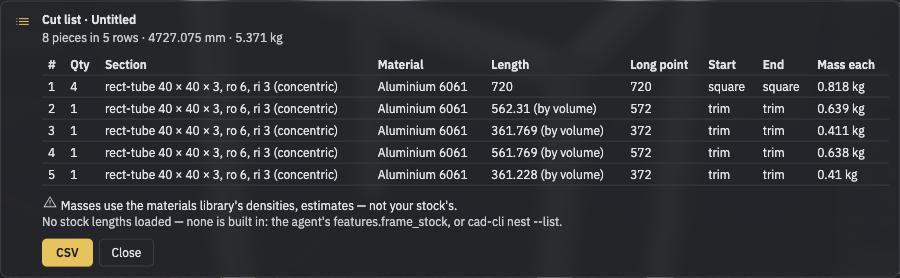
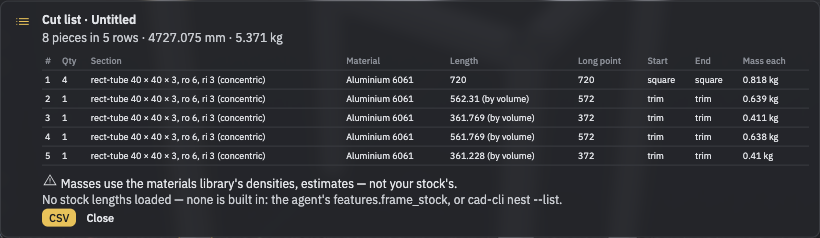
docs(library-docs): every shot retaken on G12's final layout (36, 2.7 MB) — the Parameters and Rendering shots in, the Preview & analysis section, the agent's chat as scripted turns streamed in the browser (its proposal made by the real tool layer through cad-mcp); capture steps for the preview swit

diff --git a/apps/library-docs/docs/studio/rendering.md b/apps/library-docs/docs/studio/rendering.md
@@ -7,8 +7,10 @@ camera. It can also add props and animate the part.
 - **WebGPU only.** It draws with the studio's WebGPU viewer. On WebGL2 the panel says rendering needs WebGPU, and the
   view stays the modelling look.
 
-Click **Render** in the top bar to open it. The **Render** panel has four tabs: **Appearance**, **Lights**, **Scene**
-and **Source**.
+Click **Render** in the top bar to open it. The **Render** panel, in the dock, has four tabs: **Appearance**, **Lights**,
+**Scene** and **Source**.
+
+![The Render workspace: the part in a brass appearance, the Render panel in the dock and the timeline under the viewport](/shots/studio/rendering/appearance.jpg)
 
 ## Appearance
 
@@ -38,6 +40,8 @@ An appearance is a look, not a material: a body's mass comes from its material, 
   - **Tone map**: **Filmic (ACES)** or **None**.
   - **Edges**, **Grid**, **Ground** and **Occlusion**.
 
+![The Lights tab](/shots/studio/rendering/lights.png)
+
 ## Camera
 
 - **Save this view** keeps the camera with the document, and **Go to saved view** returns to it.
@@ -54,6 +58,8 @@ The **Source** tab holds two texts, both in the language of [@barocss/gpu](/pack
 - **MATERIALS · @SHADER**: `@shader` materials, each a colour expression with its uniforms. **Add material** starts
   one.
 
+![The Source tab: the props and the materials](/shots/studio/rendering/source.png)
+
 ## Timeline and turntable
 
 The timeline animates the bodies:
@@ -61,6 +67,8 @@ The timeline animates the bodies:
 - **Time** scrubs and plays; **Duration** sets the length.
 - **Turntable** turns the camera round the part.
 - For a selected body, **Set key** keeps its offset at the current time. A key can be jumped to or removed.
+
+![The timeline: play, the time and its length, and Turntable](/shots/studio/rendering/timeline.png)
 
 ## Exporting an image
 

diff --git a/apps/library-docs/docs/agent/index.md b/apps/library-docs/docs/agent/index.md
@@ -87,9 +87,13 @@ A turn appears in the chat as it happens:
 
 ## An example turn
 
-These shots come from a scripted run: each message names the calls to make, and a stand-in for the `claude` CLI makes
-them through the real chat server and tool server. No model ran, but the gates and the results are the studio's
-own.
+These shots come from scripted turns streamed in the browser. No model ran and no chat server: the studio was handed
+the chat server's own events for each turn (its text, thinking, tool calls and the part's state), and the chat
+showed and applied them as it does a real turn.
+
+- The part each turn leaves is a real document.
+- The proposal was made by the real tool layer, at the default autonomy, through `cad-mcp`.
+- The chat's header names the model as "scripted".
 
 1. "A 60 × 40 plate, 8 thick." The part is empty, so at L2 the first build applies directly. A toast says **Applied by
    the agent**, with **Undo**.
@@ -99,7 +103,7 @@ own.
 2. "Make it 10 thick, with an 8 mm hole in the middle." That changes one feature and adds another, so at L2 the
    direct change is refused. The agent proposes it instead, as **P1**, and the part stays as it was until you accept.
 
-   ![The refused change and the proposal in the chat](/shots/agent/proposals/refused-then-proposed.png)
+   ![The chat column: the proposal at its top; each turn with its Thinking… line and tool calls; the refused batch, and P1 linked under its propose call](/shots/agent/proposals/refused-then-proposed.png)
 
 The proposal's card, its preview and its choices are on [Proposals and autonomy](/agent/proposals).
 

diff --git a/apps/library-docs/docs/agent/proposals.md b/apps/library-docs/docs/agent/proposals.md
@@ -76,12 +76,12 @@ The card's buttons:
 The chat also links each proposal under the call that made it, with its risk, its status, and **Reject** and **Accept**
 while it is open. Deciding there decides the same proposal. A stale one is rebased from the Proposals list.
 
-These shots come from a scripted run (see [the example turn](/agent/#an-example-turn)): no model ran, but the gates and
-results are the studio's own.
+These shots come from scripted turns streamed in the browser (see [the example turn](/agent/#an-example-turn)): no model
+ran. The proposal itself was made by the real tool layer.
 
-![The agent's change, refused at L2 and proposed instead: the chat shows both calls](/shots/agent/proposals/refused-then-proposed.png)
+![The chat column: the proposal at its top, and in the turn the refused batch, the propose call and P1 linked under it](/shots/agent/proposals/refused-then-proposed.png)
 
-![The proposal previewed: the hole and the thicker plate shown before it is accepted](/shots/agent/proposals/preview.jpg)
+![The proposal previewed: the hole and the thicker plate shown before it is accepted, its card at the top of the chat column](/shots/agent/proposals/preview.jpg)
 
 ![The proposal card: its risk, summary, the features to keep, Reject and Accept](/shots/agent/proposals/card.png)
 

diff --git a/apps/library-docs/ROADMAP.md b/apps/library-docs/ROADMAP.md
@@ -9,11 +9,9 @@
   - 도구 표와 거부 코드 표(코드에서 생성);
   - .bcad의 모든 필드;
   - cad-model의 모든 모듈 폴더.
-- **스크린샷.** 29장, 2.5 MB입니다. Getting started는 WebGPU와 WebGL2 모두에서 실제 studio로 따라 해 확인했습니다.
+- **스크린샷.** G12 최종 레이아웃으로 모두 다시 찍었습니다(36장, 2.7 MB). Parameters·Rendering 스크린샷도 들어갔고,
+  에이전트 화면은 브라우저에서 재생한 대본 대화입니다. Getting started는 WebGPU와 WebGL2 모두에서 확인했습니다.
 - **남은 일.**
-  - G12(레이아웃 정리)가 들어오면 레이아웃이 보이는 스크린샷을 다시 찍습니다. Parameters와 Rendering의 스크린샷도
-    그때 넣습니다.
-  - kernel 레인이 R5 fingerprint 스크립트를 커밋하면 Verification 페이지가 그것을 가리키게 합니다.
   - 다른 레인 파일에서 찾은 문구 문제(cad-cli usage, cad-model README, 예제 rows의 about)는 코디네이터에게 넘겼습니다.
 
 ## 요약 (Korean summary for the owner)

diff --git a/apps/library-docs/docs/studio/parameters.md b/apps/library-docs/docs/studio/parameters.md
@@ -15,6 +15,8 @@ Open **Parameters** in the top bar:
 - **Delete one.** Each feature that used it keeps its value as a plain number.
 - **Where it's used.** Each parameter shows how many features use it, as `1×`.
 
+![The Parameters panel in the dock: the parameter C used once, and the configurations small and large](/shots/studio/parameters/panel.jpg)
+
 ## Binding a value
 
 Bind a feature's value in its editor: click the feature in the history or the **Browser**, then pick a parameter from the **ƒ** list next
@@ -22,6 +24,8 @@ to the value, and **Apply**.
 
 - While bound, the value follows the parameter and can't be typed.
 - Pick **ƒ** again to unbind it. The value stays as it is.
+
+![A chamfer's Distance bound to the parameter C in the feature editor](/shots/studio/parameters/bind.png)
 
 The agent can change parameter values too. At the default autonomy, a change to parameter values applies directly
 when every hard requirement still passes. Adding or removing a parameter is a proposal. See

diff --git a/apps/library-docs/docs/studio/tour.md b/apps/library-docs/docs/studio/tour.md
@@ -2,7 +2,7 @@
 
 ## The layout
 
-![The studio with the starter plate](/shots/studio/tour/layout.jpg)
+![The studio with the starter plate: the chat folded to its strip at the left, the Tools rail, the viewport with the history and view bar, and the dock at the right with the Browser, the inspector and Preview & analysis](/shots/studio/tour/layout.jpg)
 
 The studio has three columns: the chat at the left, the stage in the centre (the top bar, the viewport and its bars),
 and the dock at the right.

diff --git a/apps/library-docs/docs/studio/display.md b/apps/library-docs/docs/studio/display.md
@@ -54,6 +54,8 @@ The dock's **Preview & analysis** section shows one preview on the model at a ti
 - **The switch turns the preview on.** Only the chosen preview's settings show under it.
 - **None** shows a one-line hint.
 
+![The Preview & analysis section with Analysis chosen: its Surface and Map choices](/shots/studio/display/preview-analysis.png)
+
 The previews are:
 
 - **CNC** and **Print**: see [Manufacturing](/studio/manufacturing).
